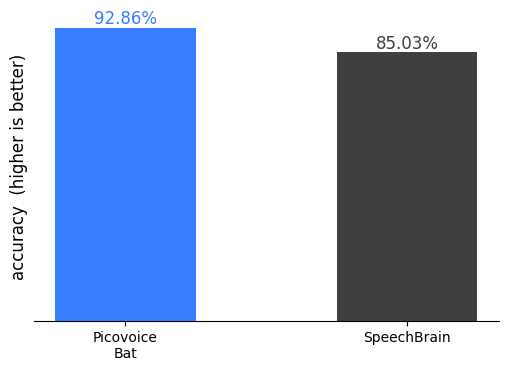
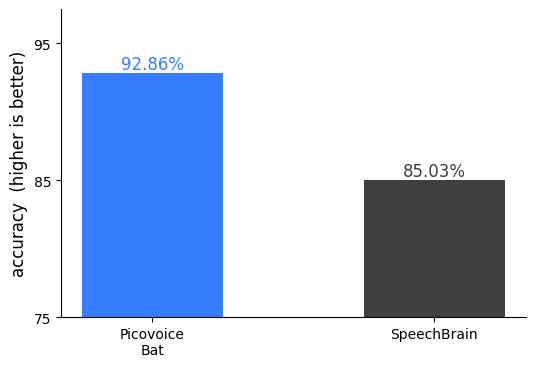
Updates and Tweaks (#2)

Changed region(s): [[0.0, 0.03, 0.9744, 0.9891]]

diff --git a/plot_results.py b/plot_results.py
@@ -126,8 +126,9 @@ def _plot_average_metric(
     ax.set_ylabel(f"{metric.value} {more_info}", fontsize=12)
     ax.spines["top"].set_visible(False)
     ax.spines["right"].set_visible(False)
-    ax.spines["left"].set_visible(False)
-    ax.set_yticks([])
+    ax.spines["left"].set_visible(True)
+    ax.set_yticks([75, 85, 95])
+    ax.set_ylim(75)
 
     plot_path = os.path.join(
         RESULTS_FOLDER,
@@ -195,26 +196,40 @@ def _plot_mem(
         show: bool) -> None:
     fig, ax = plt.subplots(figsize=(6, 4))
     for engine in Engines:
-        size_bytes = 0.0
+        init_size_bytes = 0.0
+        proc_size_bytes = 0.0
         for dataset in Datasets:
-            size_bytes += results[dataset][engine]["size_bytes"]
-        size_bytes /= len(Datasets)
+            init_size_bytes += results[dataset][engine]["init_size_bytes"]
+            proc_size_bytes += results[dataset][engine]["proc_size_bytes"]
+        init_size_bytes /= len(Datasets)
+        proc_size_bytes /= len(Datasets)
 
-        size_bytes /= 1024 * 1024
+        init_size_bytes /= 1024 * 1024
+        proc_size_bytes /= 1024 * 1024
 
         ax.barh(
             ENGINE_PRINT_NAMES[engine],
-            size_bytes,
+            init_size_bytes,
             height=0.5,
             color=ENGINE_COLORS[engine],
             edgecolor="none",
             label=ENGINE_PRINT_NAMES[engine],
         )
-        ax.text(
-            size_bytes + 10,
+        ax.barh(
             ENGINE_PRINT_NAMES[engine],
-            f"{size_bytes:.2f}MB",
-            ha="center",
+            proc_size_bytes,
+            left=init_size_bytes,
+            height=0.5,
+            color=ENGINE_COLORS[engine],
+            alpha=0.5,
+            edgecolor="none",
+            label=ENGINE_PRINT_NAMES[engine],
+        )
+        ax.text(
+            init_size_bytes + proc_size_bytes + 10,
+            ENGINE_PRINT_NAMES[engine],
+            f"{init_size_bytes:.2f}MB Init\n{proc_size_bytes:.2f}MB Proc",
+            ha="left",
             va="center",
             fontsize=12,
             color=ENGINE_COLORS[engine],
@@ -224,7 +239,7 @@ def _plot_mem(
     ax.spines["bottom"].set_visible(False)
     ax.spines["right"].set_visible(False)
     ax.set_xticks([])
-    plt.title("MB required to initialize the model", fontsize=12)
+    plt.title("Peak memory usage (MB)", fontsize=12)
     plot_path = os.path.join(
         RESULTS_FOLDER,
         "plots",

diff --git a/metric.py b/metric.py
@@ -1,7 +1,16 @@
+import threading
+
+from contextlib import contextmanager
 from enum import Enum
-from typing import Sequence
+from typing import (
+    Any,
+    Generator,
+    Sequence,
+    Dict,
+)
 
 import numpy as np
+import psutil
 
 
 class Metrics(Enum):
@@ -35,7 +44,49 @@ class AccuracyMetric(Metric):
         return f"🧪[{Metrics.ACCURACY.value}]"
 
 
+def _memory_tree(proc_main):
+    total = 0
+    proc_list = [proc_main] + proc_main.children(recursive=True)
+    for p in proc_list:
+        try:
+            total += p.memory_full_info().pss
+        except psutil.NoSuchProcess:
+            pass
+    return total
+
+
+@contextmanager
+def measure_peak_memory(interval: float = 0.005)-> Generator[Dict[str, int], Any, None]:
+    proc_main = psutil.Process()
+    peak_mem = 0
+    result = {
+        "peak_mem": peak_mem,
+    }
+    stop_event = threading.Event()
+
+    initial_mem = _memory_tree(proc_main)
+
+    def _measure():
+        nonlocal peak_mem
+        while not stop_event.is_set():
+            mem = _memory_tree(proc_main)
+            peak_mem = max(peak_mem, mem)
+            stop_event.wait(interval)
+
+    t = threading.Thread(target=_measure)
+    t.start()
+
+    try:
+        yield result
+    finally:
+        stop_event.set()
+        t.join()
+
+    result["peak_mem"] = (peak_mem - initial_mem)
+
+
 __all__ = [
     "Metric",
     "Metrics",
+    "measure_peak_memory",
 ]

diff --git a/benchmark.py b/benchmark.py
@@ -75,6 +75,11 @@ def main() -> None:
             total_process_time += process_time
             total_audio_time += audio_time
 
+    with measure_peak_memory() as peak_memory_result:
+        for language in BatLanguages:
+            for i in range(dataset.size(language)):
+                _, _ = engine.process(dataset.get(language, i))
+
     accuracy = metric.compute(num_correct, num_wrong)
     rtf = total_process_time / total_audio_time
 
@@ -84,7 +89,8 @@ def main() -> None:
     results_path = os.path.join(RESULTS_FOLDER, "data", args.dataset, f"{args.engine}.json")
     results = {
         args.metric: accuracy,
-        "size_bytes": engine.size_bytes,
+        "init_size_bytes": engine.size_bytes,
+        "proc_size_bytes": peak_memory_result['peak_mem'],
         "process_time": total_process_time,
         "audio_time": total_audio_time,
     }

diff --git a/README.md b/README.md
@@ -26,18 +26,22 @@ $$
 ACCURACY = \frac{CORRECT}{INCORRECT + CORRECT}
 $$
 
-### Model Size
+### Memory Usage
 
-The size of the model on init is used to evaluate the memory consumption of the language identification engine, indicating the minimum amount of ram required to use the engine.
+Memory usage is gathered in two places:
+- `init` memory is a measure of the memory used when the engine "initializes" (loads the model, prepares internal state, etc).
+- `proc` memory is a measure of the additional memory used whilst "processing" audio and producing an inference.
+
+When combined these two values represent "peak" memory usage, or the total memory required to run the engine and produce an inference from audio.
 
 ## Engines
 
 - [Picovoice Bat](https://picovoice.ai/)
-- [SpeechBrain](https://github.com/speechbrain/speechbrain)
+- [SpeechBrain](https://github.com/speechbrain/speechbrain) ([model](https://huggingface.co/speechbrain/lang-id-voxlingua107-ecapa))
 
 ## Usage
 
-This benchmark has been developed and tested on `Ubuntu 24.04` using `Python 3.12`.
+This benchmark has been developed and tested on `Ubuntu 22.04` using `Python 3.10`.
 
 1. Install the requirements:
 
@@ -85,15 +89,6 @@ This benchmark has been developed and tested on `Ubuntu 22.04`, using `Python 3.
 
 ![](./results/plots/accuracy.png)
 
-### Model Size
-
-|     Engine      | Model Size |
-|:---------------:|:----------:|
-|  Picovoice Bat  |    5.18MB  |
-|   SpeechBrain   |  117.57MB  |
-
-![](./results/plots/mem.png)
-
 ### CPU
 
 |     Engine      |  Core-Hour |
@@ -102,3 +97,19 @@ This benchmark has been developed and tested on `Ubuntu 22.04`, using `Python 3.
 |   SpeechBrain   |    3.90    |
 
 ![](./results/plots/cpu.png)
+
+### Memory
+
+|     Engine      | Peak Memory                                   |
+|:---------------:|:---------------------------------------------:|
+|  Picovoice Bat  |    5.36MB *(   5.14MB init +   0.22MB proc )* |
+|   SpeechBrain   |  333.35MB *( 113.43MB init + 219.92MB proc )* |
+
+![](./results/plots/mem.png)
+
+### Model Size
+
+|     Engine      | Model Size |
+|:---------------:|:----------:|
+|  Picovoice Bat  |    4.3MB   |
+|   SpeechBrain   |   84.5MB   |
